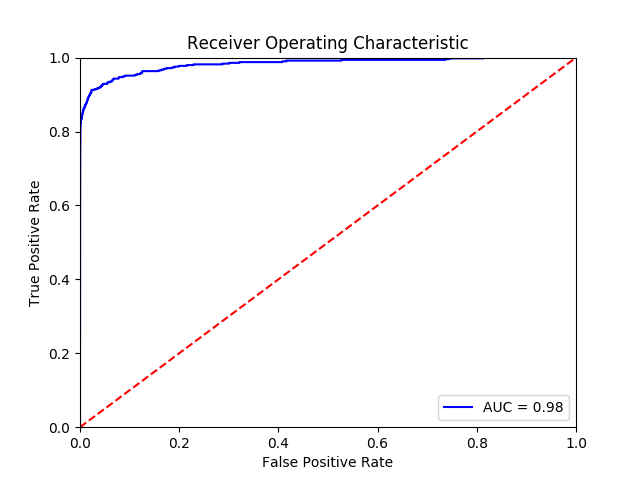
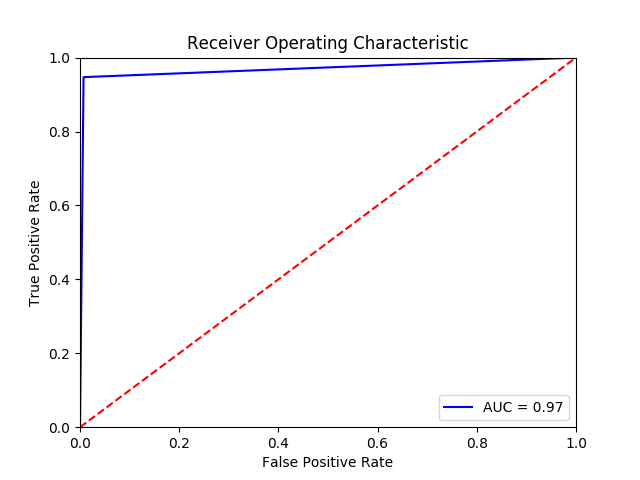
Prepare for release

Changed region(s): [[0.2188, 0.125, 0.8125, 0.1562], [0.125, 0.1562, 0.2188, 0.4688]]

diff --git a/src/model.py b/src/model.py
@@ -9,7 +9,7 @@ import matplotlib.pyplot as plt
 from keras.models import Sequential
 from keras.layers import Dense, Dropout
 from keras_contrib.layers import SReLU
-from keras.callbacks import BaseLogger, ModelCheckpoint, EarlyStopping, ReduceLROnPlateau, TensorBoard
+from keras.callbacks import BaseLogger, EarlyStopping, ReduceLROnPlateau, TensorBoard
 from sklearn.preprocessing import StandardScaler
 from sklearn.utils import compute_class_weight
 from sklearn.model_selection import StratifiedKFold
@@ -67,7 +67,8 @@ reduce_lr = ReduceLROnPlateau(monitor='val_loss', factor=0.2, patience=5, min_lr
 tensor_board = TensorBoard(log_dir='./logs', histogram_freq=0, write_graph=True, write_images=False)
 
 # Storage
-W = []
+k = 0
+predictions = np.empty([len(Y), kfold.n_splits])
 for train, test in kfold.split(X, Y):
     # Define model
     model = generate_model()
@@ -80,20 +81,16 @@ for train, test in kfold.split(X, Y):
                         validation_data=(X[test], Y[test]),
                         class_weight=class_weights,
                         callbacks=[baselogger, earlystop, reduce_lr, tensor_board])
-    # Grab model weights
-    W.append(model.get_weights())
+    # Store the predicted probabilities and iterate k
+    predictions[train, k] = model.predict_proba(X[train]).flatten()
+    k += 1
 
-# Average the model weights
-w = np.mean(np.array(W), axis=0).tolist()
-
-# Ensemble model
-model = generate_model()
-model.set_weights(weights=w)
-yhat = model.predict_proba(X)
+# Average the model predictions
+yhat = np.nanmean(predictions, axis=1).round().astype(int)
 
 # Performance
-print(classification_report(Y, yhat > 0.5))
-print(pd.crosstab(Y, yhat.flatten() > 0.5, rownames=['Truth'], colnames=['Predictions']))
+print(classification_report(Y, yhat))
+print(pd.crosstab(Y, yhat.flatten(), rownames=['Truth'], colnames=['Predictions']))
 
 fpr, tpr, thresholds = roc_curve(Y, yhat)
 precision, recall, thresholds = precision_recall_curve(Y, yhat)

diff --git a/README.md b/README.md
@@ -1,5 +1,7 @@
 # Credit Card Fraud Analysis
 
+[![Docker Automated buil](https://img.shields.io/docker/automated/ellisvalentiner/credit-card-fraud.svg)]() [![Docker Build Statu](https://img.shields.io/docker/build/ellisvalentiner/credit-card-fraud.svg)]() [![GitHub release](https://img.shields.io/github/release/ellisvalentiner/credit-card-fraud.svg)]()
+
 Analysis of credit card fraud data using neural networks.
 
 ## Dataset
@@ -14,7 +16,7 @@ The dataset was collected and analysed during a research collaboration of Worldl
 
 The data is split into 5 train/test sets, balanced to account for fraud being a relatively rare event. For each split, a multi-layer perceptron (MLP) neural network is fit consisting of 28 input nodes, a densely connected hidden layer with 22 nodes with S-shaped rectified linear activation and 20% dropout, and 1 output node with a sigmoid activation. The models are fit using batches of 1200 observations for up to 100 epochs, although validation loss (binary crossentropy) is monitored to permit early stopping. Stochastic optimization is performed using _Adam_.
 
-The final model is an ensemble of the stratified k-fold neural networks, constructed by averaging the model weights.
+The final model is an ensemble of the stratified k-fold neural networks, constructed by averaging the model predictions.
 
 The models are implemented in Python using Keras and TensorFlow as the backend, although you could use Theano if you like (remember to remove the TensorBoard callback).
 
@@ -26,26 +28,26 @@ KERAS_BACKEND=tensorflow ipython src/model.py
 
 ## Performance
 
-The final model achieves an overall _f1_ score of 0.99, with 99% sensitivity and 11% precision for the positive class. That is, the model correctly identifies 99% of the fraud cases (true positives) but only 11% of the transactions predicted as fraudulent were actually fraudulent. The model catches 87% of the fraudulent cases — it could identify more cases of fraud but would then also have lower precision.
+The final model achieves an overall _f1_ score of 1.00, with 95% sensitivity (recall) and 19% precision for the positive class. That is, the model correctly identifies 95% of the fraud cases (true positives) but only 19% of the transactions predicted as fraudulent were actually fraudulent. The model catches 95% of the fraudulent cases — it could identify more cases of fraud but would then also have lower precision.
 
 #### Classification report
 
 ```
              precision    recall  f1-score   support
 
-        0.0       1.00      0.99      0.99    284315
-        1.0       0.11      0.87      0.20       492
+        0.0       1.00      0.99      1.00    284315
+        1.0       0.19      0.95      0.31       492
 
-avg / total       1.00      0.99      0.99    284807
+avg / total       1.00      0.99      1.00    284807
 ```
 
 #### Cross-tabulation
 
 ```
-Predictions   False  True 
-Truth                     
-0.0          281005   3310
-1.0              62    430
+Predictions       0     1
+Truth                    
+0.0          282274  2041
+1.0              26   466
 ```
 
 #### ROC Curve
